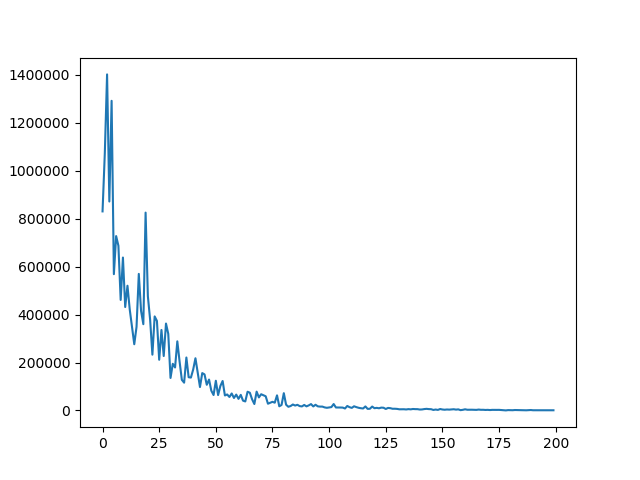
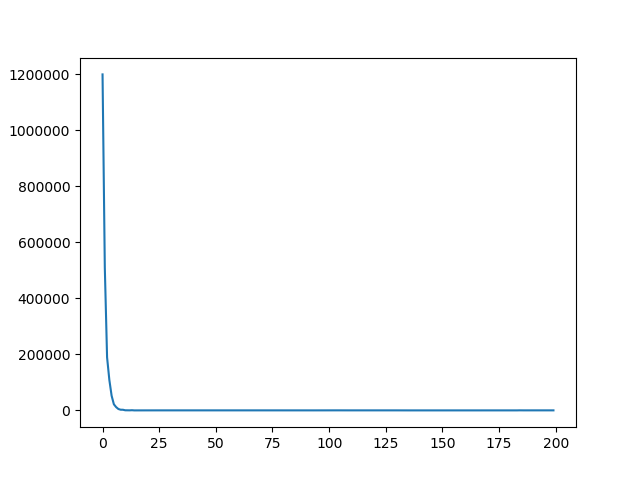
:penguin: Change regression model to layers

diff --git a/regression.py b/regression.py
@@ -11,43 +11,50 @@ from autodiff import value_and_grad, value, grad
 from autodiff.utils.datasets import Dataset, DataLoader
 from autodiff.nn.optimizer import GradientDescent
 from autodiff.nn.criterion import MSE
+from autodiff.nn.layer import Module, Linear
 
 warnings.filterwarnings("ignore", category=matplotlib.cbook.mplDeprecation)
 warnings.filterwarnings("ignore", category=RuntimeWarning)
 
 
-def model(W, feed_dict={}):
-    return ad.dot(ad.Placeholder(x=feed_dict['x']), ad.Variable(W=W))
+# def model(W, feed_dict={}):
+#     return ad.dot(ad.Placeholder(x=feed_dict['x']), ad.Variable(W=W))
 
-data_size = 100
+class SimpleModel(Module):
+    def __init__(self, num_features):
+        super().__init__()
+        self.linear = Linear(num_features, 1)
+
+    def forward(self, x):
+        return self.linear(x, bridge=False)
+
+data_size = 300
 X = 2 * _np.random.rand(data_size, 1)
 aug_X = _np.c_[_np.ones(data_size), X]
+
+# True parameters
 theta = _np.array([[5], [10]])
 Y = aug_X @ theta + _np.random.randn(data_size, 1)
 print("training shape", X.shape, Y.shape)
 
-W = _np.random.random((2, 1))
-parameters = [W]
-
+model = SimpleModel(2)
 dataset = Dataset(aug_X, Y)
 dataloader = DataLoader(dataset)
 
-# print(W)
 lr = 0.001
-opt = GradientDescent(lr, parameters, ["W"])
+opt = GradientDescent(lr, model.parameters())
 loss_func = MSE()
-epoch = 100
+epoch = 300
 for i in range(epoch):
-    x, y = dataloader.next_batch(50)
-    predicted_y = value(model)(W=W, feed_dict={'x': x})
-    v, loss_grad = loss_func.calc_loss(y, predicted_y)
-    model_grad = grad(model, upstream=loss_grad)(W=W, feed_dict={'x': x})
+    x, y = dataloader.next_batch(10)
+    predicted_y = model(x)
+    v, loss_grad = loss_func(y, predicted_y)
+    model_grad = model.backward(loss_grad)
     opt.step(model_grad)
+    model.zero_grad()
     print(i, v)
 
-print(W)
-print(theta)
-predict = value(model)(W=W, feed_dict={'x': aug_X})
+predict = model(aug_X)
 
 plt.scatter(
     X,
@@ -55,5 +62,5 @@ plt.scatter(
 )
 plt.plot(X, predict, 'r')
 # plt.axis('off')
-plt.savefig('result.png')
+plt.savefig('regression.png')
 plt.show()

diff --git a/boston.py b/boston.py
@@ -45,7 +45,7 @@ lr = 1e-8
 opt = GradientDescent(lr, model.parameters())
 loss_func = MSE()
 epoch = 200
-batch_size = 2
+batch_size = 16
 loss_list = []
 for i in range(epoch):
     x, y = dataloader.next_batch(batch_size)
